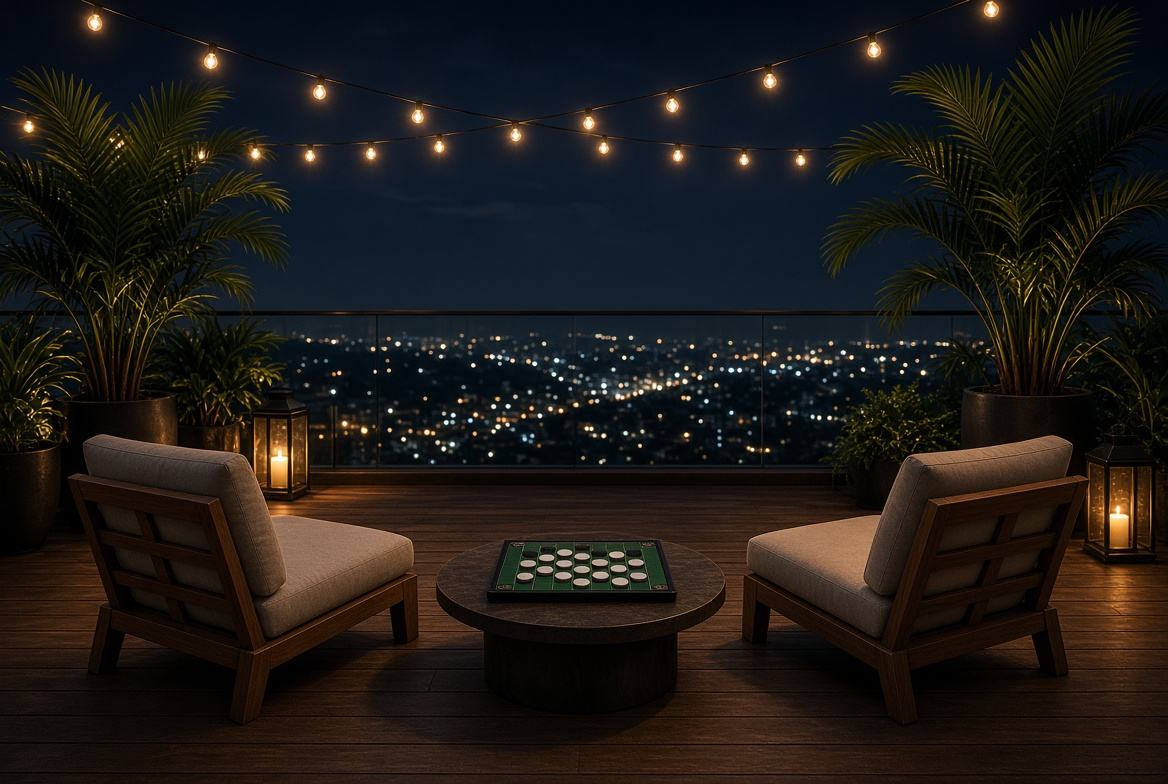
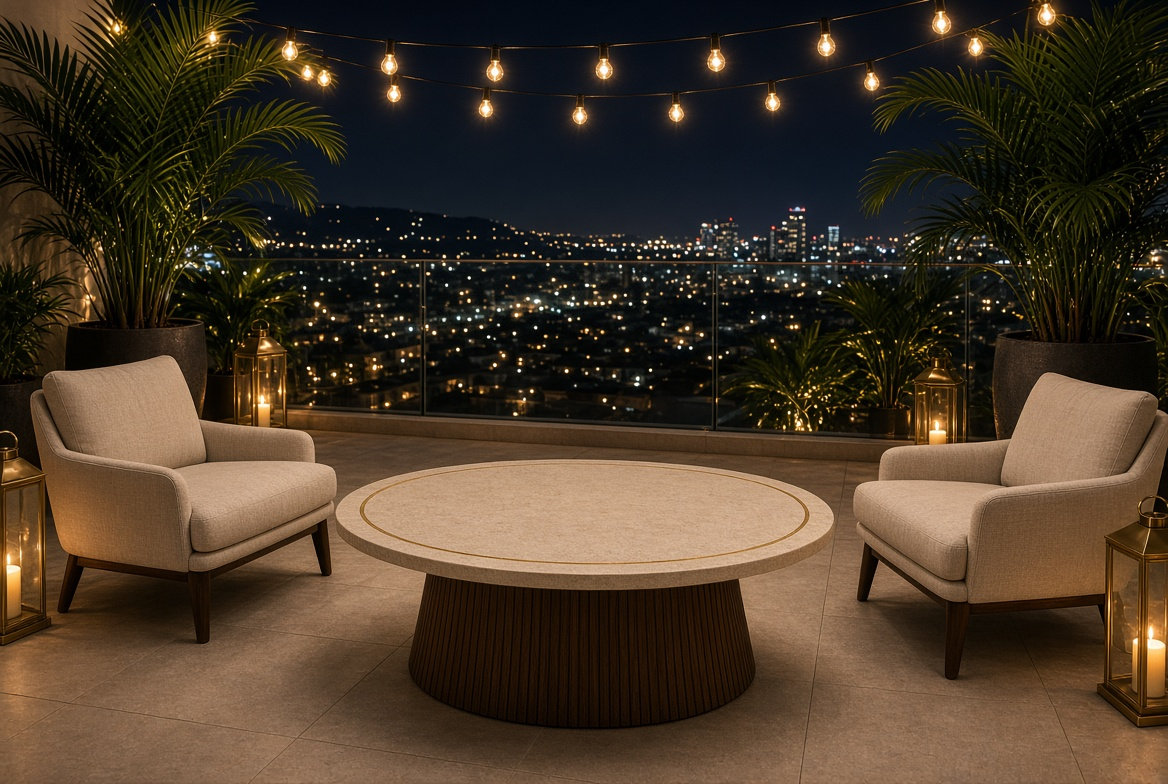
Update Othello room and live board.

diff --git a/othello.html b/othello.html
@@ -9,8 +9,8 @@
 :root{--navy:#1A2744;--whim:#7EB6D9}
 *{box-sizing:border-box}
 html,body{min-height:100%}
-body{margin:0;font-family:Montserrat,sans-serif;color:#f4ead0;
-  background:#0d1a2a url("othello-terrace.jpg") center 36%/cover no-repeat}
+body{margin:0;font-family:Montserrat,sans-serif;color:#2a2418;
+  background:#3a4238 url("othello-terrace.jpg") center 42%/cover no-repeat}
 header{display:flex;flex-wrap:wrap;align-items:center;justify-content:space-between;padding:6px 4% 8px;background:var(--navy);min-height:72px;z-index:2;position:relative}
 .brand{display:flex;align-items:center;color:#fff;text-decoration:none;font-size:26px}
 .brand img{width:72px;height:72px;object-fit:contain;margin-right:-8px}
@@ -25,18 +25,68 @@ body.seated .sit{display:none}
 body:not(.seated) .stand{display:none}
 body:not(.seated) .live{display:none}
 body.seated .live{display:block}
-.live{max-width:560px;margin:8px auto 40px;padding:8px 10px}
+.live{max-width:min(460px,92vw);margin:8px auto 40px;padding:8px 10px}
 .titlewrap{text-align:center}
-h1{display:inline-block;margin:4px 0;font-size:22px;background:rgba(255,252,247,.88);color:var(--navy);padding:4px 14px;border-radius:999px}
-.sub{text-align:center;font-size:13px;margin:0 0 10px;color:#f4ead0;text-shadow:0 1px 4px #000}
-.table{background:linear-gradient(180deg,#1c2a22,#0f1914);padding:14px;border-radius:16px;box-shadow:0 0 0 3px #c9a45a,0 18px 36px rgba(0,0,0,.4)}
-.meta{display:flex;justify-content:space-between;color:#f4ead0;font-size:12px;font-weight:700;margin-bottom:8px}
-.grid{display:grid;grid-template-columns:repeat(8,1fr);gap:3px;background:#0a3d28;padding:8px;border-radius:8px;border:3px solid #c9a45a}
-.cell{aspect-ratio:1;background:#1b6a45;border-radius:3px;border:0;padding:8%;cursor:pointer}
-.cell.ok{box-shadow:inset 0 0 0 2px #e8c15a}
-.disc{width:100%;height:100%;border-radius:50%;display:block}
-.disc.b{background:radial-gradient(circle at 32% 28%,#4a6a9a,#1A2744 62%);box-shadow:0 2px 4px rgba(0,0,0,.35)}
-.disc.w{background:radial-gradient(circle at 32% 28%,#fffef8,#e6d7b0 62%);box-shadow:0 2px 4px rgba(0,0,0,.25)}
+h1{display:inline-block;margin:4px 0;font-size:22px;background:rgba(255,252,247,.9);color:var(--navy);padding:4px 14px;border-radius:999px}
+.sub{text-align:center;font-size:13px;margin:0 0 10px;color:#1A2744;background:rgba(255,252,247,.78);display:inline-block;padding:3px 12px;border-radius:999px}
+.titlewrap + .sub{display:block;width:fit-content;margin:0 auto 10px}
+.boardwrap{
+  background:
+    linear-gradient(145deg,#c9a45a,#8a6a2e 40%,#e8c98a 70%,#6e5220);
+  padding:14px;
+  border-radius:10px;
+  box-shadow:0 18px 36px rgba(0,0,0,.35), inset 0 1px 0 rgba(255,255,255,.35);
+}
+.table{
+  background:
+    repeating-linear-gradient(90deg,rgba(201,164,90,.18) 0 1px,transparent 1px 12.5%),
+    repeating-linear-gradient(180deg,rgba(201,164,90,.18) 0 1px,transparent 1px 12.5%),
+    linear-gradient(180deg,#3b2a1a,#2a1c12);
+  padding:10px;
+  border-radius:4px;
+  box-shadow:inset 0 0 0 2px #5a4020, inset 0 0 22px rgba(0,0,0,.35)
+}
+.meta{display:flex;justify-content:space-between;color:#f4ead0;font-size:12px;font-weight:700;margin:0 2px 8px}
+.grid{
+  display:grid;
+  grid-template-columns:repeat(8,1fr);
+  grid-template-rows:repeat(8,1fr);
+  gap:0;
+  width:100%;
+  aspect-ratio:1 / 1;
+  border:1px solid #c9a45a;
+  box-shadow:inset 0 0 0 1px #1a1208
+}
+.cell{
+  border:0;padding:9%;cursor:pointer;border-radius:0;
+  background:linear-gradient(160deg,#4a3422,#2c1d12);
+  box-shadow:inset 0 0 0 .5px rgba(201,164,90,.55);
+  min-width:0;min-height:0
+}
+.cell:nth-child(odd){background:linear-gradient(160deg,#3f2c1c,#24160e)}
+.cell.ok{box-shadow:inset 0 0 0 2px #e8c15a, inset 0 0 10px rgba(232,193,90,.35)}
+.disc{
+  width:100%;height:100%;border-radius:50%;display:block;position:relative;
+  transform:translateZ(0)
+}
+.disc.b{
+  background:
+    radial-gradient(circle at 30% 26%,#7ea8d4 0 8%,#2a4a7a 28%,#1A2744 68%,#0c1424 100%);
+  box-shadow:
+    0 3px 0 #0a1220,
+    0 6px 8px rgba(0,0,0,.35),
+    inset 0 -6px 8px rgba(0,0,0,.28),
+    inset 0 3px 4px rgba(255,255,255,.2)
+}
+.disc.w{
+  background:
+    radial-gradient(circle at 30% 26%,#fff 0 10%,#f4ead0 32%,#e6d3a8 70%,#c9b07a 100%);
+  box-shadow:
+    0 3px 0 #8a7350,
+    0 6px 8px rgba(0,0,0,.28),
+    inset 0 -6px 8px rgba(120,90,40,.22),
+    inset 0 3px 4px rgba(255,255,255,.7)
+}
 .hint{text-align:center;margin:10px 0 0;background:rgba(255,252,247,.92);color:var(--navy);display:inline-block;padding:6px 12px;border-radius:999px;font-size:13px}
 @media(max-width:800px){
   header{display:grid;grid-template-columns:1fr auto;padding:6px 10px}
@@ -81,9 +131,11 @@ h1{display:inline-block;margin:4px 0;font-size:22px;background:rgba(255,252,247,
 <div class="live">
   <div class="titlewrap"><h1>Night Terrace Othello</h1></div>
   <p class="sub">You are cobalt. Flip a line. Most discs win.</p>
-  <div class="table">
-    <div class="meta"><span>You <b id="youN">2</b></span><span>House <b id="houseN">2</b></span></div>
-    <div class="grid" id="grid"></div>
+  <div class="boardwrap">
+    <div class="table">
+      <div class="meta"><span>You <b id="youN">2</b></span><span>House <b id="houseN">2</b></span></div>
+      <div class="grid" id="grid"></div>
+    </div>
   </div>
   <div style="text-align:center"><p class="hint" id="msg">Your move. Gold ring = legal square.</p></div>
 </div>
